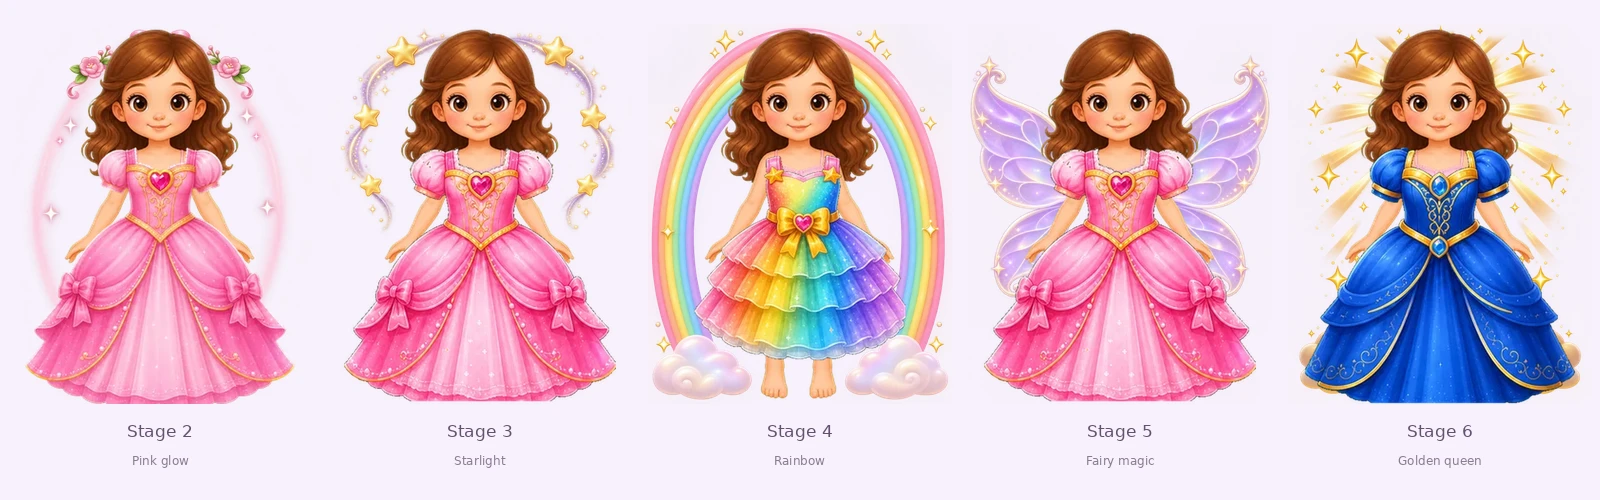
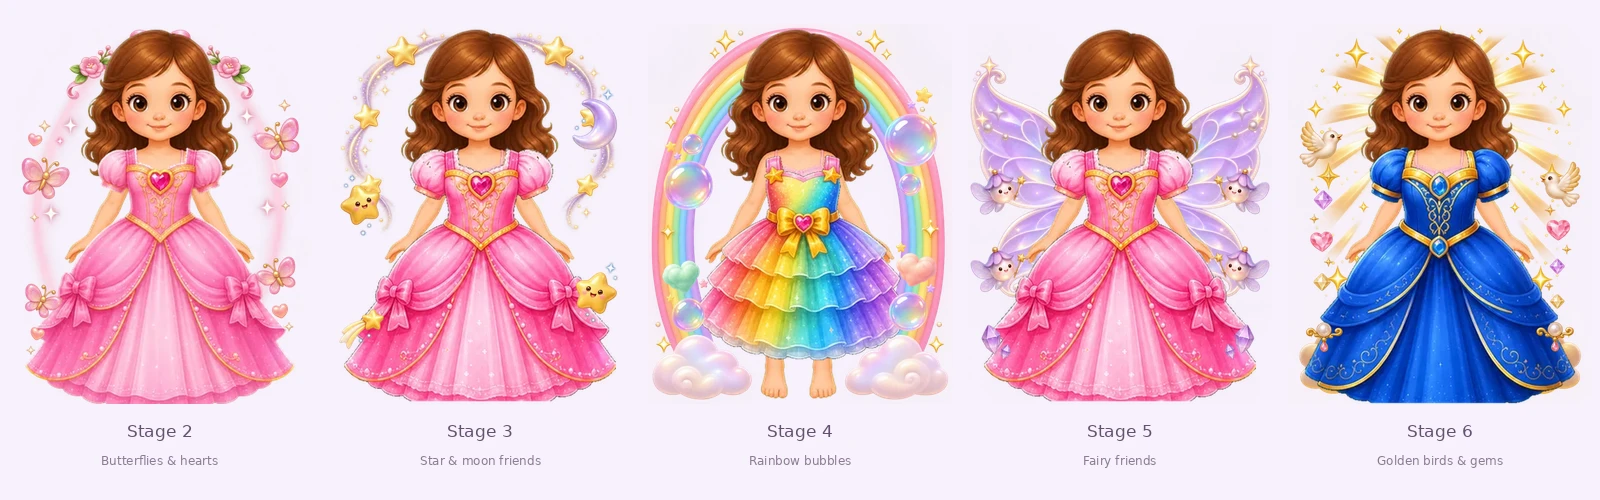
Add diverse foreground princess companions and decorations

diff --git a/src/assets/princess/README.md b/src/assets/princess/README.md
@@ -12,17 +12,17 @@
 
 ## 등록된 장식
 
-아래 그림은 모두 640×800 픽셀의 투명 배경 WebP이며, 기존 캐릭터 뒤에 표시됩니다.
+아래 그림 10장은 모두 640×800 픽셀의 투명 배경 WebP입니다. 뒤 장식과 앞 장식을 함께 표시하며, 앞 장식은 얼굴과 몸통을 피해서 양옆에 배치했습니다.
 
 ![기존 공주와 드레스를 겹친 2~6단계 장식 미리보기](../../../art/princess-growth-preview.webp)
 
-| 파일 | 장식 |
-| --- | --- |
-| `stage-2.webp` | 분홍빛 후광, 작은 반짝이와 꽃 장식 |
-| `stage-3.webp` | 금빛 별 고리와 별빛 |
-| `stage-4.webp` | 파스텔 무지개와 작은 구름 |
-| `stage-5.webp` | 연보라 요정 날개와 발밑 마법진 |
-| `stage-6.webp` | 금빛 햇살 후광, 반짝이와 발밑 구름 |
+| 단계 | 뒤 장식 | 앞 장식 |
+| --- | --- | --- |
+| 2 꼬마 공주 | `stage-2.webp`: 분홍빛 후광과 꽃 | `stage-2-front.webp`: 분홍 나비와 하트 |
+| 3 별빛 공주 | `stage-3.webp`: 금빛 별 고리와 별빛 | `stage-3-front.webp`: 웃는 별 친구, 달과 유성 |
+| 4 무지개 공주 | `stage-4.webp`: 파스텔 무지개와 구름 | `stage-4-front.webp`: 무지갯빛 비눗방울과 하트 구름 |
+| 5 마법 공주 | `stage-5.webp`: 요정 날개와 마법진 | `stage-5-front.webp`: 작은 요정 친구와 보라색 크리스털 |
+| 6 여왕님 | `stage-6.webp`: 금빛 후광과 구름 | `stage-6-front.webp`: 금빛 새와 반짝이는 보석 |
 
 GPT 이미지 생성에 사용한 요청 문구는 [`art/princess-growth.json`](../../../art/princess-growth.json)에 보관합니다.
 
